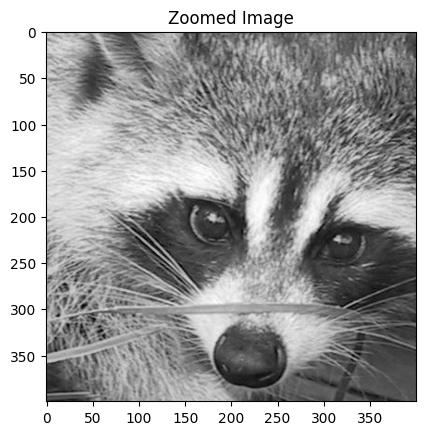
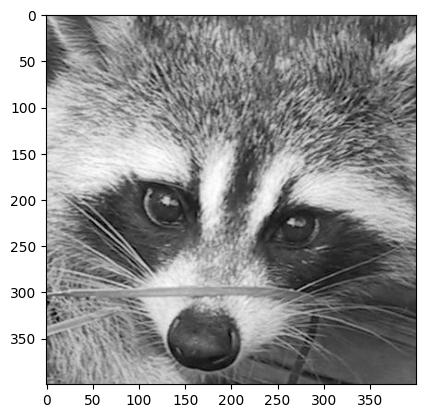
feat: module 01

diff --git a/python-1/ex05/pimp_image.py b/python-1/ex05/pimp_image.py
@@ -1,0 +1,57 @@
+import numpy as np
+from PIL import Image
+
+
+def _display_image(array, title):
+    """Displays a transformed image using the default image viewer."""
+    try:
+        Image.fromarray(array).show(title=title)
+    except Exception:
+        return
+
+
+def ft_invert(array):
+    """Inverts the colors of the image received."""
+    if array is None:
+        return None
+    inverted = 255 - array
+    _display_image(inverted, "Invert")
+    return inverted
+
+def ft_red(array):
+    """Keeps only the red channel of the image."""
+    if array is None:
+        return None
+    red_filter = np.array([1, 0, 0], dtype=array.dtype)
+    red = array * red_filter
+    _display_image(red, "Red")
+    return red
+
+def ft_green(array):
+    """Keeps only the green channel of the image."""
+    if array is None:
+        return None
+    green_img = array.copy()
+    green_img[:, :, 0] = green_img[:, :, 0] - green_img[:, :, 0]
+    green_img[:, :, 2] = green_img[:, :, 2] - green_img[:, :, 2]
+    _display_image(green_img, "Green")
+    return green_img
+
+def ft_blue(array):
+    """Keeps only the blue channel of the image."""
+    if array is None:
+        return None
+    blue_img = array.copy()
+    blue_img[:, :, 0] = 0
+    blue_img[:, :, 1] = 0
+    _display_image(blue_img, "Blue")
+    return blue_img
+
+def ft_grey(array):
+    """Converts the image to grey while preserving a 3-channel shape."""
+    if array is None:
+        return None
+    grey = np.mean(array, axis=2, keepdims=True).astype(array.dtype)
+    grey_img = np.repeat(grey, 3, axis=2)
+    _display_image(grey_img, "Grey")
+    return grey_img

diff --git a/python-1/ex05/load_image.py b/python-1/ex05/load_image.py
@@ -1,0 +1,30 @@
+from PIL import Image
+import numpy as np
+
+
+def ft_load(path: str) -> np.ndarray:
+    """Loads an image, displays its format and shape, and returns its RGB pixel array.
+
+    Args:
+        path (str): The path to the image file.
+
+    Returns:
+        np.ndarray: The image data as a NumPy array, or None if an error occurs.
+    """
+    try:
+        img = Image.open(path)
+        if img.format not in ["JPEG", "MPO"]:
+            raise ValueError("Unsupported image format. Only JPG and JPEG are allowed.")
+        img_rgb = img.convert("RGB")
+        img_array = np.array(img_rgb)
+        print(f"The shape of image is: {img_array.shape}")
+        print(img_array)
+
+        return img_array
+    except FileNotFoundError:
+        print(f"Error: The file at '{path}' was not found.")
+        return None
+    except Exception as error:
+        print(f"Error: {error}")
+        return None
+    

diff --git a/python-0/ex04/whatis.py b/python-0/ex04/whatis.py
@@ -6,6 +6,7 @@ def main():
         return
     try:
         assert len(sys.argv) == 2, "more than one argument is provided"
+        assert sys.argv[1].isdigit(), "argument is not an integer"
         num = int(sys.argv[1])
         if (num % 2):
             print("I'm Odd")
@@ -13,8 +14,6 @@ def main():
             print("I'm Even")
     except AssertionError as error:
         print(f"AssertionError: {error}")
-    except ValueError:
-        print("AssertionError: argument is not an integer")
 
 
 if __name__ == "__main__":